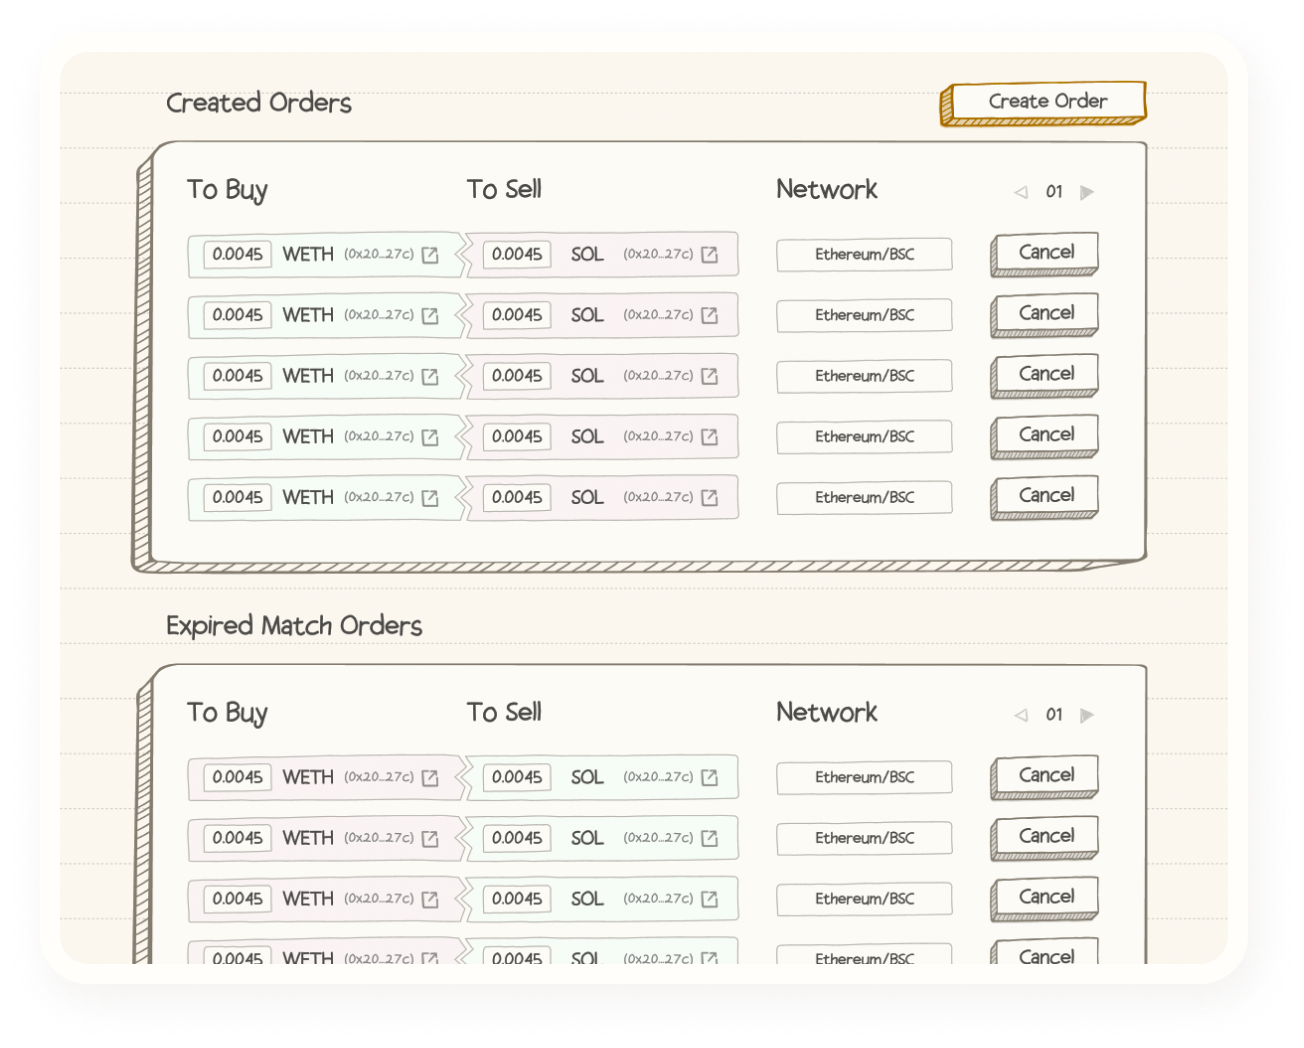
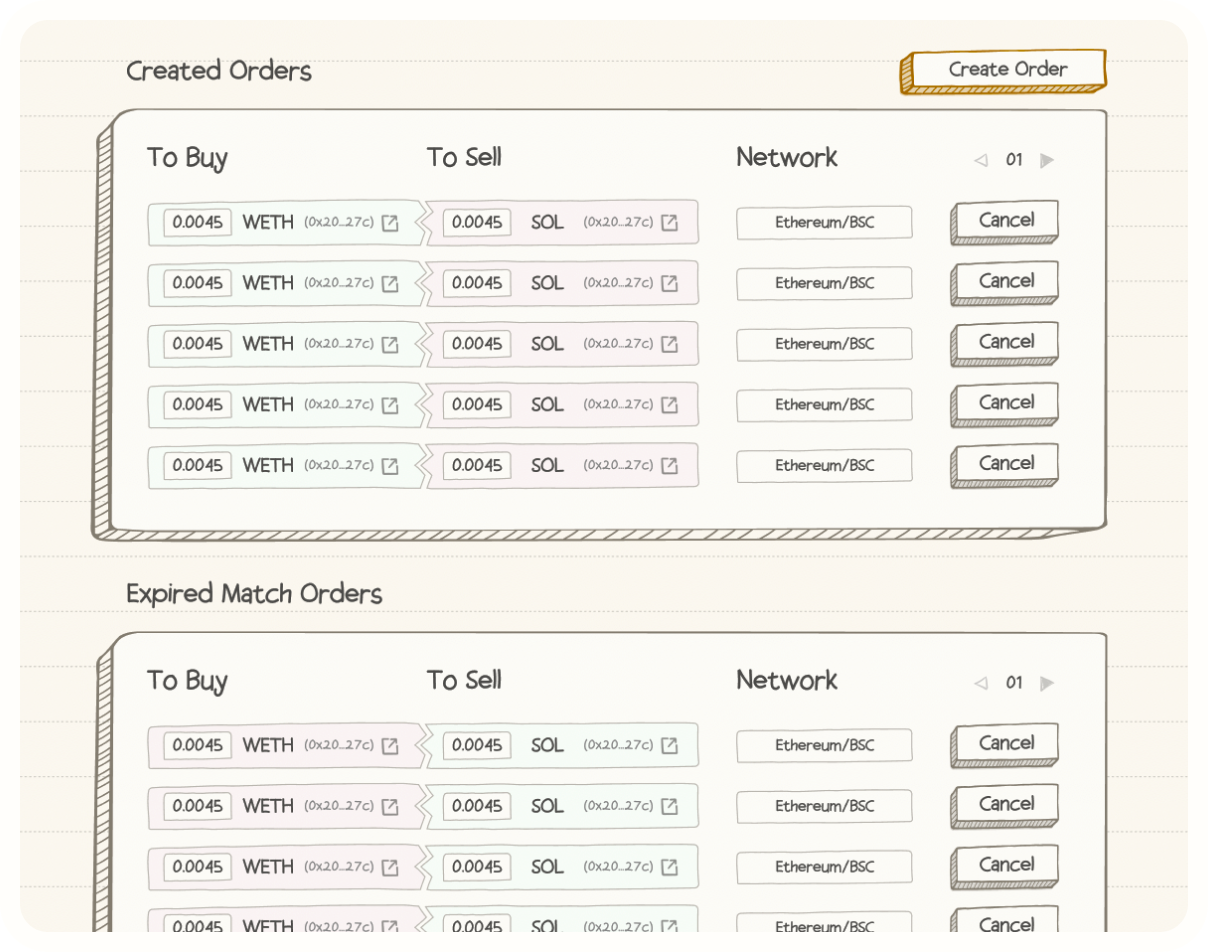
fix images

Changed region(s): [[0.0613, 0.0305, 0.9189, 1.0]]

diff --git a/src/pages/Homepage.vue b/src/pages/Homepage.vue
@@ -283,6 +283,8 @@ const isMobile = computed(() => windowWidth.value < WINDOW_BREAKPOINTS.tablet)
 .homepage__third-block-info-block-img {
   max-width: toRem(302);
   width: 100%;
+  box-shadow: toRem(2) toRem(4) toRem(12) rgba(94, 77, 62, 0.07);
+  border-radius: toRem(12);
 }
 
 .homepage__third-block-info-block {
